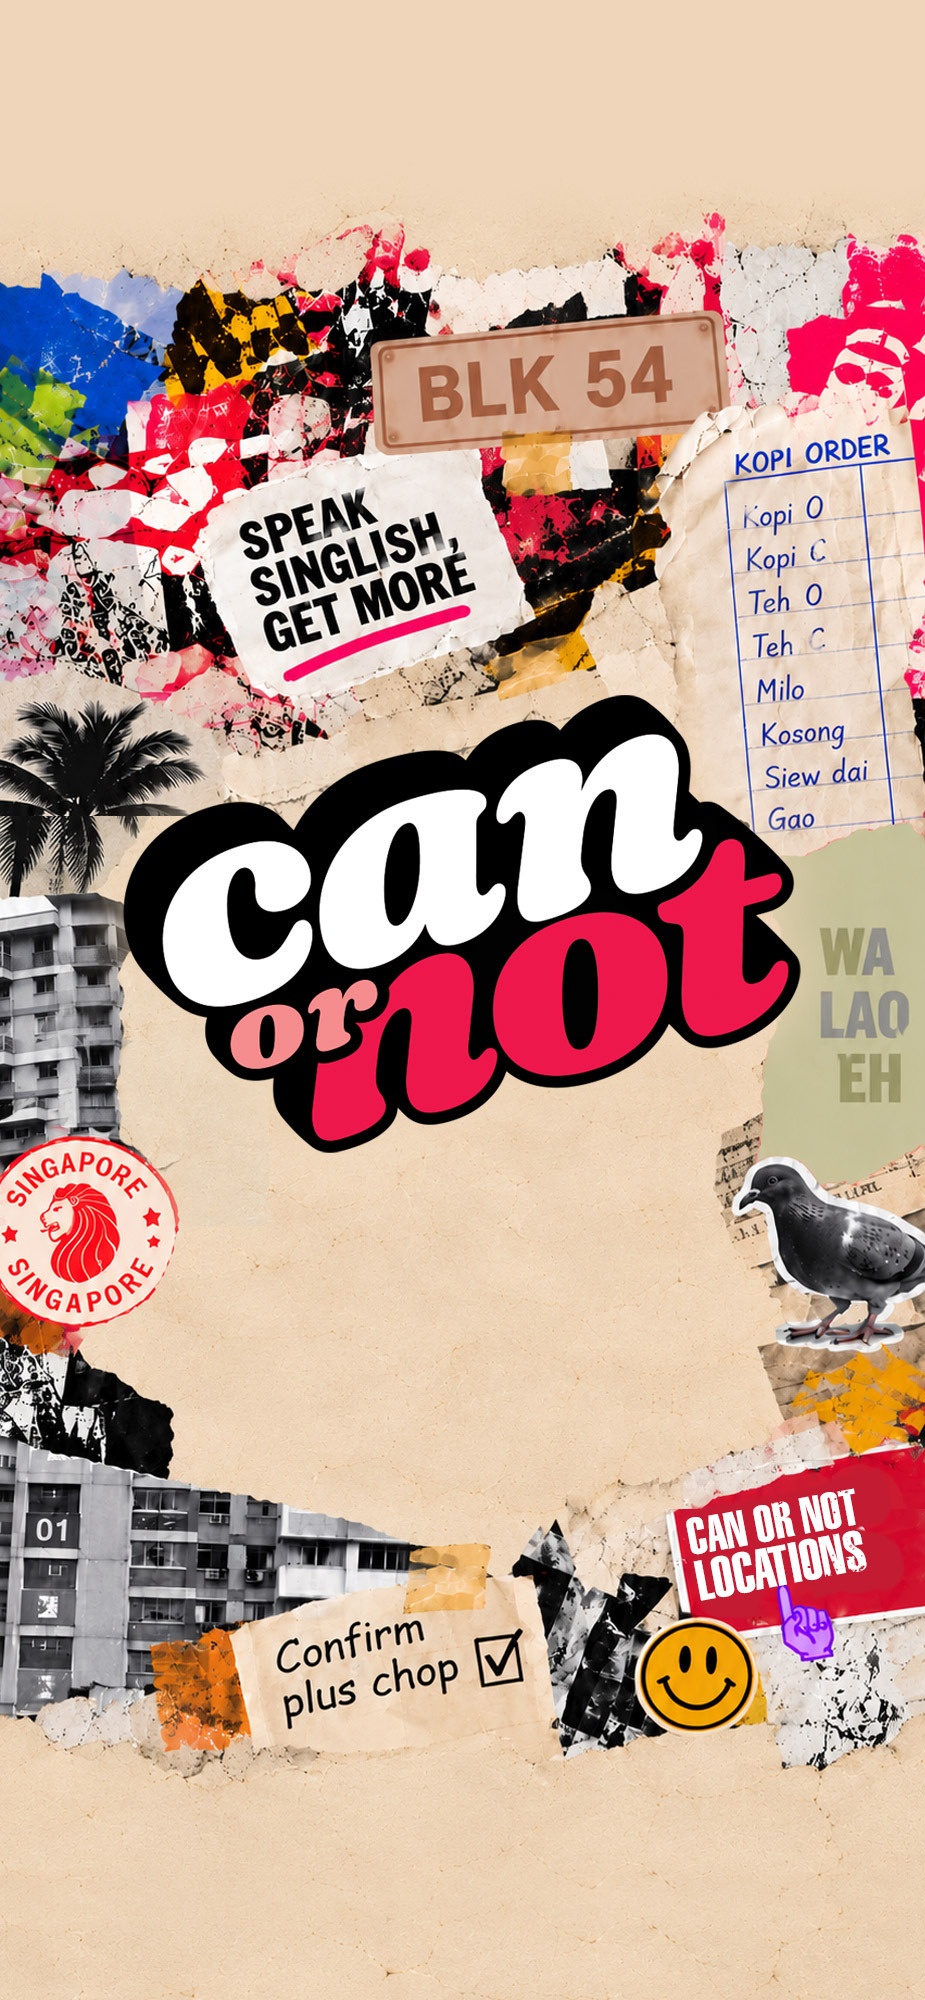
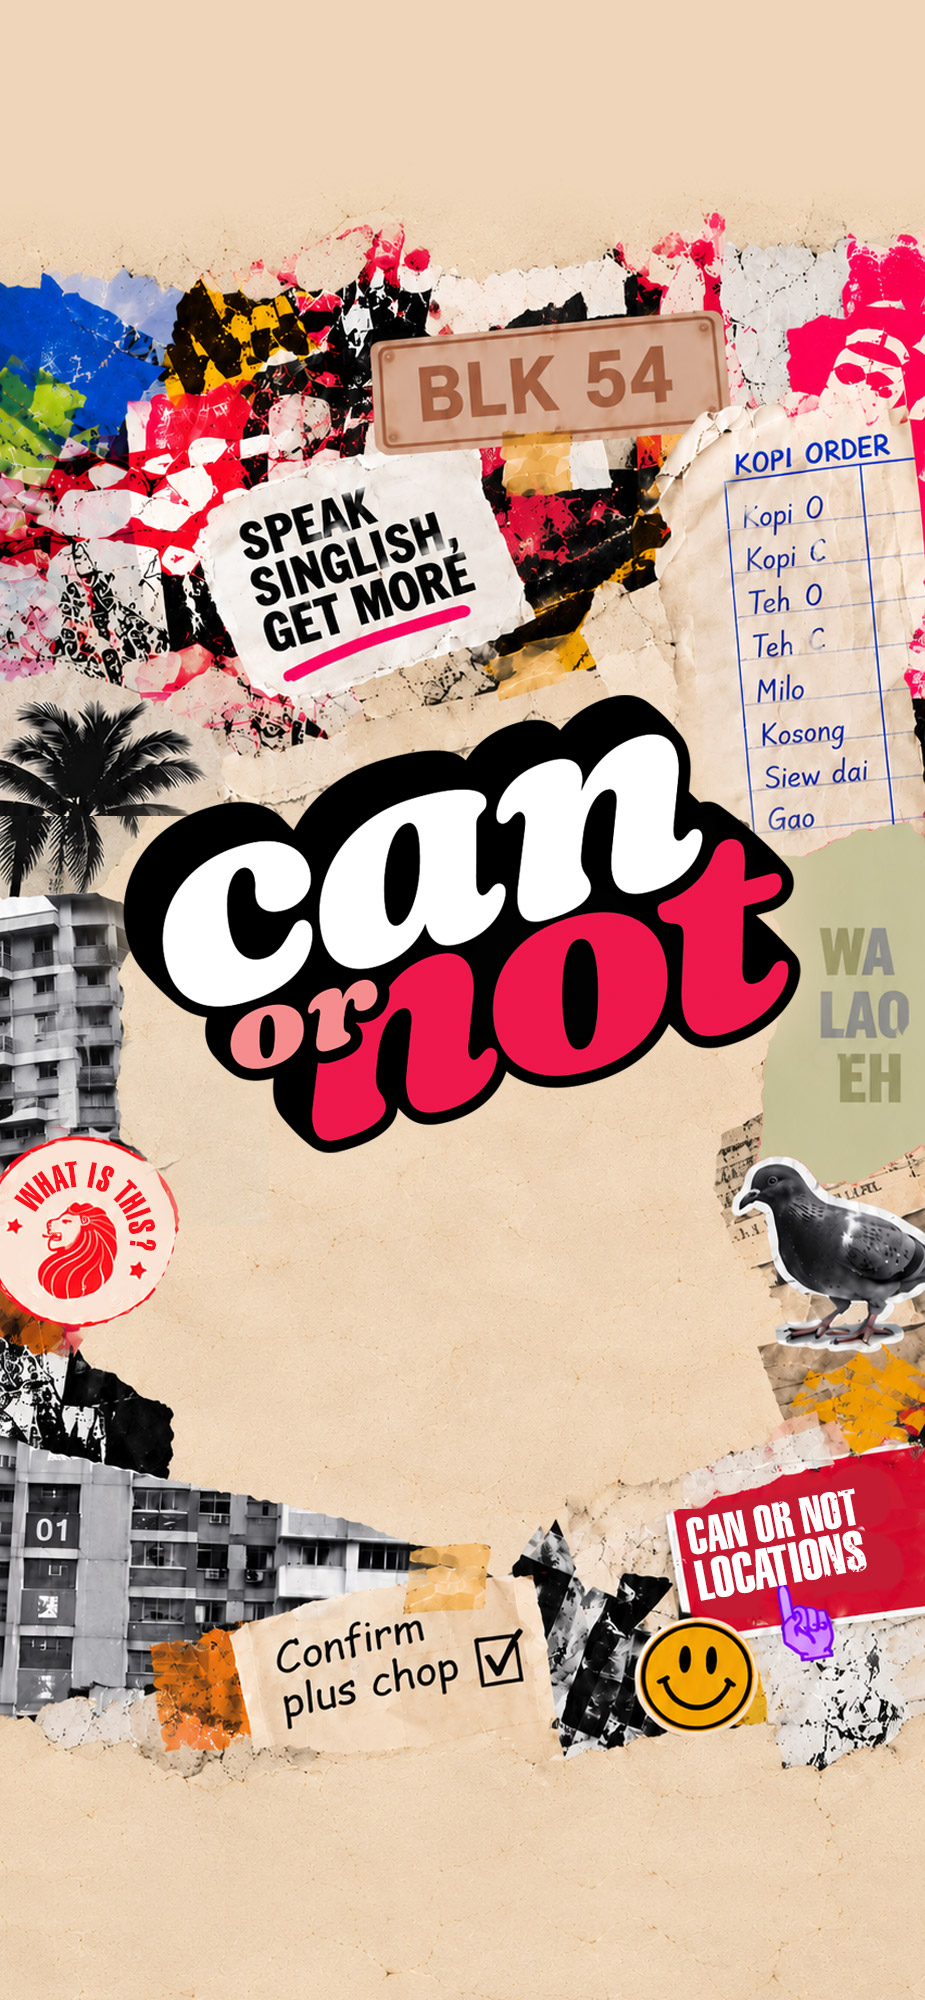
Add files via upload

Changed region(s): [[0.0, 0.558, 0.1816, 0.682]]

diff --git a/index.html b/index.html
@@ -589,6 +589,17 @@ display:inline-block;
 transform:scaleX(1.25);
 }
 
+.about-hotspot{
+  position:absolute;
+  left:0%;
+  top:60%;
+  width:20%;
+  height:12%;
+  z-index:21;
+  cursor:pointer;
+  -webkit-tap-highlight-color:transparent;
+}
+
 .locations-hotspot{
   position:absolute;
   left:76%;
@@ -1116,6 +1127,7 @@ animation-delay:600ms;
                 </div>
       </div>
 
+      <div class='about-hotspot' id='aboutHotspot' aria-label='What is Can or Not?'></div>
       <div class='locations-hotspot store-link' aria-label='Can or Not locations'></div>
       <div class='bird-hotspot' id='birdHotspot' aria-label='Hear from the bird'></div>
       <div class='bird-panel' id='birdPanel'>
@@ -1511,7 +1523,13 @@ const aboutLink = document.getElementById('aboutLink');
 const aboutLinkReward = document.getElementById('aboutLinkReward');
 const aboutLinkDesktop = document.getElementById('aboutLinkDesktop');
 const aboutModal = document.getElementById('aboutModal');
+const aboutHotspot = document.getElementById('aboutHotspot');
 const closeAbout = document.getElementById('closeAbout');
+if(aboutHotspot){
+  aboutHotspot.addEventListener('click', () => {
+    if(aboutModal) aboutModal.style.display = 'flex';
+  });
+}
 
 if(aboutLink){
   aboutLink.addEventListener('click', (e) => {
